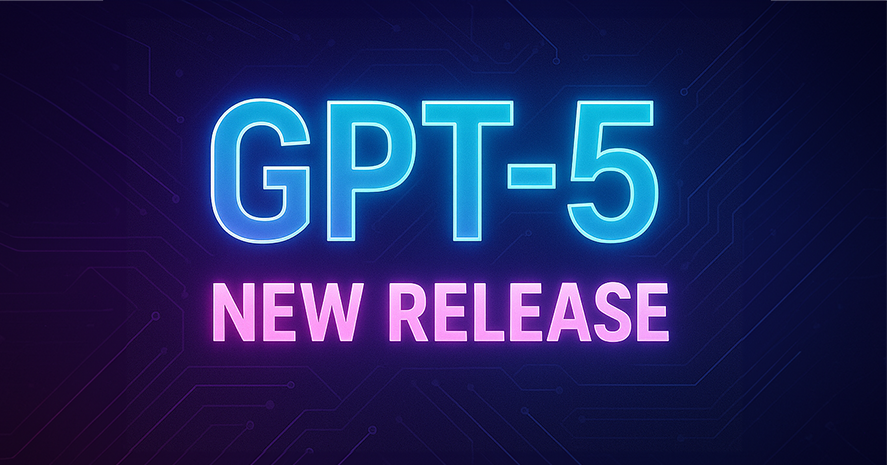
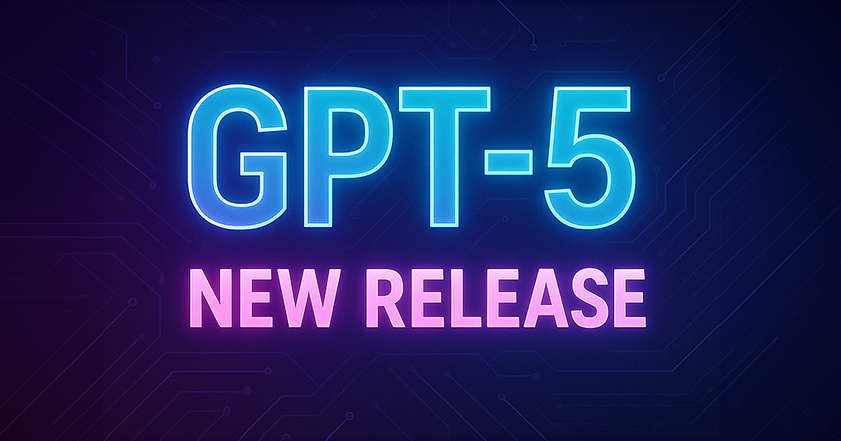
updated paid apps and gpt5 art

diff --git a/public/news/gpt-5-dawn-ai-revolution-2025.html b/public/news/gpt-5-dawn-ai-revolution-2025.html
@@ -15,7 +15,7 @@
     <!-- Open Graph Meta Tags -->
     <meta property="og:title" content="The Dawn of GPT-5: The AI That's Ready to Rock Your World!">
     <meta property="og:description" content="GPT-5 is here and it's not just any AI model—it's the next generation that's going to change how you think about artificial intelligence forever. With multimodal processing, enhanced memory, blazing speed, and emotional intelligence, this is the evolution we've been waiting for.">
-    <meta property="og:image" content="https://betteraibots.com/gpt5updates.png">
+    <meta property="og:image" content="https://betteraibots.com/gpt5updates.webp?v=1">
     <meta property="og:image:width" content="1200">
     <meta property="og:image:height" content="630">
     <meta property="og:url" content="https://betteraibots.com/news/gpt-5-dawn-ai-revolution-2025">
@@ -29,7 +29,7 @@
     <meta name="twitter:card" content="summary_large_image">
     <meta name="twitter:title" content="The Dawn of GPT-5: The AI That's Ready to Rock Your World!">
     <meta name="twitter:description" content="GPT-5 is here and it's not just any AI model—it's the next generation that's going to change how you think about artificial intelligence forever. With multimodal processing, enhanced memory, blazing speed, and emotional intelligence, this is the evolution we've been waiting for.">
-    <meta name="twitter:image" content="https://betteraibots.com/gpt5updates.png">
+    <meta name="twitter:image" content="https://betteraibots.com/gpt5updates.webp?v=1">
     <meta name="twitter:site" content="@BetterAiBots">
     
     <!-- Structured Data -->
@@ -39,7 +39,7 @@
       "@type": "Article",
       "headline": "The Dawn of GPT-5: The AI That's Ready to Rock Your World!",
       "description": "GPT-5 is here and it's not just any AI model—it's the next generation that's going to change how you think about artificial intelligence forever. With multimodal processing, enhanced memory, blazing speed, and emotional intelligence, this is the evolution we've been waiting for.",
-      "image": "https://betteraibots.com/gpt5updates.png",
+      "image": "https://betteraibots.com/gpt5updates.webp?v=1",
       "author": {
         "@type": "Organization",
         "name": "BetterAiBots"

diff --git a/src/App.js b/src/App.js
@@ -476,19 +476,19 @@ function Apps() {
       image: "https://betteraibots.com/assets/aisdr-logo.png"
     },
     {
-      name: "ChatGPT Team",
-      description: "Team collaboration with ChatGPT, shared workspaces, and admin controls",
-      category: "Team Collaboration",
-      features: ["Team workspace", "Admin controls", "Shared conversations", "Priority support"],
-      price: "$25/user/month",
-      link: "https://chat.openai.com",
-      image: "https://betteraibots.com/assets/chatgpt-team-logo.png"
+      name: "RunPod.io",
+      description: "Cloud GPU platform for training, fine-tuning, and deploying AI models with zero infrastructure management",
+      category: "AI Infrastructure",
+      features: ["On-demand GPUs", "Serverless AI workloads", "Instant scaling", "Global deployment"],
+      price: "Pay per use",
+      link: "https://get.runpod.io/w3na2cm4xdjp",
+      image: "https://betteraibots.com/assets/runpod-logo.png"
     },
     {
       name: "Pipes.ai",
       description: "AI-powered lead engagement platform that converts web leads into live calls for your sales team",
       category: "Sales & Lead Generation",
-      features: ["AI-powered voice and SMS", "Lead verification and filtering", "Automated follow-ups", "Real-time analytics", "CRM integration"],
+      features: ["AI-powered voice and SMS", "Lead verification and filtering", "Automated follow-ups", "Real-time analytics"],
       price: "Contact sales",
       link: "https://try.pipes.ai/hmqj0m3am6un",
       image: "https://betteraibots.com/assets/pipes-ai-logo.png"
